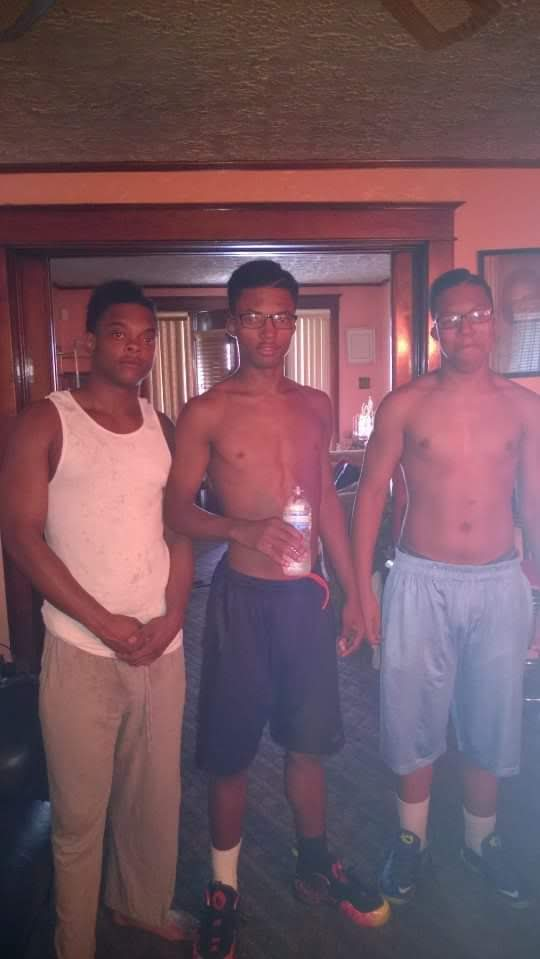
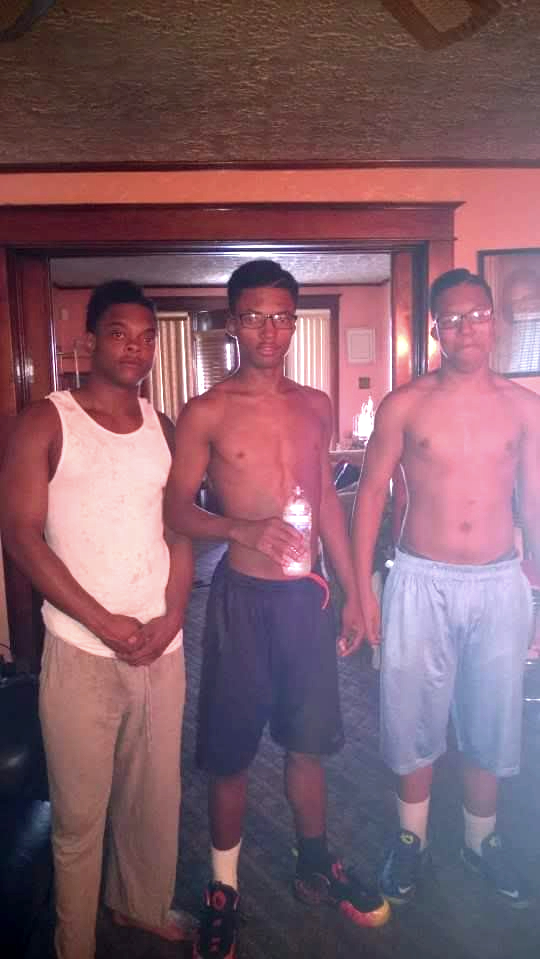
adding all types of changes

diff --git a/childhood.html b/childhood.html
@@ -28,7 +28,7 @@
       <li><a href="about.html">About</a></li>
       <li><a href="childhood.html">Childhood</a></li>
       <li><a href="motherhood.html">Motherhood</a></li>
-      <li><a href="youngparenthood2.html">Young Parenthood</a></li>
+      <li><a href="youngparenthood.html">Young Parenthood</a></li>
       <li><a href="youngadulthood.html">Young Adulthood</a></li>
       <li><a href="adulting.html">Adulting</a></li>
       <li><a href="futuremama.html">Future Mama</a></li>
@@ -44,29 +44,32 @@
               <p>I was born in July 1979 to a woman who had already had 2 boys. Hmmph, big brothers. I could take 'em or leave 'em. We lived for a few years in between Louisville KY and Indianapolis, IN. Mama chose to settle in Louisville after having two more sons, one in each state. I was dead smack in the middle and my life reflected my birth placement. It seemed like being born in the middle was an automatic divider between me and my brothers. And it didn't seem to help that I was the only one who didn't have a father.</p>
 
             <h2>Read, Write, and Draw</h2>
-          
+
               <p>I could say that not having a father caused a little toughening up of my girlie side but I'd would be lying. I would say that I was a tomboy because I have 4 frigging brothers. Duh. Cars, sports and fighting were just more interesting! It just seemed more fun to play wrestling rather than sitting on the steps wearing a frilly dress with ruffle socks. I feel Mama didn't like that she couldn't dress me up like a doll because that was the only thing I think she knew to do with a female child. Unfortunately, that just <b>wasn't</b> me. 
 
-              <figure>
-                <img src="images/meandmamaaward.jpg" alt="Me and my mama 1992 with my middle school art award" style="width: 50%; float: left;"> <figcaption>1992- Me and my mama at my 6th grade art award ceremony</figcaption>
-              <img src="images/meandrenata1993.jpg" alt="Me and a school friend Renata 1993" style="width: 50%; float: right;"><figcaption>1993- Me and a school friend, Renata</figcaption>
-            </figure>
+            <div class="childhood-gallery-2">
+              <img src="images/meandmamaaward.jpg" alt="Me and my mama 1992 with my middle school art award">
+              <img src="images/meandrenata1993.jpg" alt="Me and a school friend Renata 1993">
+              
+            </div>  
 
               <p>There's quite a few things that "weren't me", meaning there were many characteristics that I had that didn't fit my familial mold. I was a geeky girl who liked to read, paint, draw, and collect comic books. I skipped 2 high school grades, made Dean's List and Who's Who my junior & senior semesters. I couldn't have painted a bigger NERD bullseye on my own back if I wanted to. Welp!</p>
 
+            
             <h2>Childhood Dreams</h2>
            
               <p> I always wanted to be a mother for as long as I can remember. The first time being somewhere between 6 and 8 years old. I always felt I was alone. I wanted to have a family that wouldn't treat me bad or leave me alone. My plan was to finish high school and move into an apartment with my two best friends, Shawna & Sara, after graduating. I wanted to have my first baby while focusing on my writing and art and get accepted into a School of Arts Program.</p>
                 
-            <div class="childhood-gallery">
+              <p>By 16, I had written several award winning short stories that were part of my english portfolio. I had written 2 articles published in local and national publications about teen parenting. I had artwork on display in a Louisville well-known corporate office building. I felt I was going to be fully set to begin being a mother and an adult, without worrying about my education.</p>
+
+              <p>Well, thats not quite how it happened IRL but the actual outcome was so much BETTER!</p>
+
+              <div class="childhood-gallery">
                 <img src="images/meandshawnagrass.jpg" alt="Me and Shawna">
                 <img src="images/montandsaraparade.jpg" alt="Mont and Sara at the parade">
                 <img src="images/meandsaragrass.jpg" alt="Me and Sara">
             </div>
-
-              <p>By 16, I had written several award winning short stories that were part of my english portfolio. I had written 2 articles published in local and national publications about teen parenting. I had artwork on display in a Louisville well-known corporate office building. I felt I was going to be fully set to begin being a mother and an adult, without worrying about my education.</p>
-      
-              <p>Well, thats not quite how it happened IRL but the actual outcome was so much BETTER!</p>
+              
             </div>
           </div>
     </main>

diff --git a/youngadulthood.html b/youngadulthood.html
@@ -29,7 +29,7 @@
           <li><a href="about.html">About</a></li>
           <li><a href="childhood.html">Childhood</a></li>
           <li><a href="motherhood.html">Motherhood</a></li>
-          <li><a href="youngparenthood2.html">Young Parenthood</a></li>
+          <li><a href="youngparenthood.html">Young Parenthood</a></li>
           <li><a href="youngadulthood.html">Young Adulthood</a></li>
           <li><a href="adulting.html">Adulting</a></li>
           <li><a href="futuremama.html">Future Mama</a></li>
@@ -43,8 +43,31 @@
                 
                 <p>From graduating high school at 16 years old to being accepted into college at 17, I knew that education would be key to my family succeeding. A well-educated mind can rule the world. I planned my majors around something that would benefit my children even before I finished college: Early Childhood Education and Human Services (Social work).</p> 
                 
+                <div class="slideshow-container">
+                  <div class="slideshow" id="slideshow">
+                      <div class="slide">
+                        <img src="image5.jpg" alt="Image 5">
+                        <img src="image6.jpg" alt="Image 6">
+                        <img src="image7.jpg" alt="Image 7">
+                        <img src="image8.jpg" alt="Image 8">
+                      </div>
+                  </div>
+                </div>
+                
                 <p>I always felt like my life had been centered around helping others, help themselves even as a child. And I got the perfect opportunity to help others at age 16 while with the LMHA - Special Programs. The StarPoints Nurturing Program allowed me to engage and assist other teenage parents and single parents involved in the court system learn how to be good or better parents. There, under the supervision of one of the best women I've ever had the pleasure to meet in life, Johnella P. Wimberly, I was introduced to a world of caring and sharing, growing and learning, that I had never known. And she truly changed my life for the better. I loved her. I love her. I miss her. R.I.P.</p>
                 
+                 <!-- Auto-Transitioning Gallery -->
+    <div class="slideshow-container">
+      <div class="slideshow" id="slideshow">
+
+          <div class="slide">
+              <img src="image9.jpg" alt="Image 9">
+              <img src="image10.jpg" alt="Image 10">
+              <img src="image11.jpg" alt="Image 11">
+              <img src="image12.jpg" alt="Image 12">
+          </div>
+      </div>
+  </div>
 
           <h2>Working for Them</h2>
            

diff --git a/youngparenthood.html b/youngparenthood.html
@@ -46,9 +46,23 @@
           
           <p>We learned how to be a family, regardless of outside influences, through gaining extended family members who would prove to be lifelong support and connections. I was and <b>am</b> a firm believer in it takes a <i><b>VILLAGE</b></i> to raise a child.</p> 
       
+          <div class="hover-gallery">
+            <img src="images/boysdoingchores.jpg" alt="Boys doing chores outside">
+            <img src="images/FOEboys.jpg" alt="Boys Family over Everything">
+            <img src="images/montandpoohtuwrestling.jpg" alt="Mont and Junior wrestling">
+            <img src="images/poohtusleeponhands.jpg" alt="Poohtu sleep on his hands">
+        </div>
+
       <h2>As Well As</h2>
 
          <p>As I said before, we REALLY grew up together. Having to get up early in the mornings, I quickly learned the importance of the bedtime ritual. Knocking all 3 of them down for the night was no easy task! I had to wear them out before they wore ME out! We would do all types of things like have indoor stair luges with pillow armor or playing blackout hide-n-seek in a pitch dark house. I taught them how baby powder will make a spark in the dark. (Here's a hint--It involves hand-to-face action) And as they got older, it got weirder. They had rats, birds, fish, blue crabs, hamsters, cats and rabbits as pets. They paper mached the whole back of the lower level of my house. We dissected an albino frog on the sidewalk. We had Co2 BB gun wars which HURT but was fun when we ambushed others. There was not so gross stuff too like they learned how to build bikes from loose parts and work on cars.</p> 
+
+         <div class="hover-gallery">
+          <img src="images/PoohtugradBoys.jpg" alt="Poohtu graduation">
+          <img src="images/montpushingpoohtuswing.jpg" alt="Mont pushing Poohtu on a swing">
+          <img src="images/theyfamily.jpg" alt="The Boys and their Family">
+          <img src="images/shawnandmontwrestling.jpg" alt="Shawn and Mont wrestling">
+      </div>
 
         <p>Our family outings consisted of trips to museums, zoos, playgrounds, historical sites, and different states. The boys even went to Florida without me! I've still not seen the ocean...and don't care to. They had a chance to attended every school activity/event that they desired: band, chess, performing arts, football, basketball, track, proms, dances, out-of-towners, over-nighters, and pep rally's. My middle son was even blessed to participate in a trip to meet the 1st African American President of the United States, Barack O'Bama!</p>
           

diff --git a/photo.html b/photo.html
@@ -157,13 +157,112 @@ header h1  {
   color: black;
 }
 
-/* Responsive Adjustments */
-@media (max-width: 768px) {
-  .topnav ul {
-    flex-direction: column;
-    align-items: center;
-  }
+footer {
+    background-color: #f4d8e2;    
+    color: rgb(180, 152, 13);
+    text-align: center;
+    padding: 1rem 0;
+    margin-top: 2rem;
 }
+
+footer small {
+    font-size: 0.9rem;
+}
+
+/* Responsive Styles */
+
+
+@media screen and (max-width: 600px) {
+
+header h1 {
+  font-size: 1.8rem;
+  padding: 0.5rem;
+}
+
+.topnav ul {
+  display: none;
+  flex-direction: column;
+  gap: 1rem;
+}
+
+.topnav a.icon {
+  display: block;
+  float: right;
+  
+}
+
+.topnav.responsive ul {
+  display: flex;
+}
+
+.topnav.responsive ul li {
+  float: none;
+  text-align: left;
+}
+
+main {
+  padding: 10px;
+}
+
+h2, h3 {
+  font-size: 1.3em;
+  text-align: center;
+}
+
+p {
+  padding: 8px;
+  font-size: 18px;
+}
+}
+
+/* For Tablets and screens (601px to 1024px) */
+
+@media screen and (min-width: 601px) and (max-width: 1024px) {
+header h1 {
+font-size: 2.2rem;
+}
+
+.topnav ul {
+flex-direction: row;
+gap: 1rem; 
+}
+
+.topnav ul li {
+padding: 8px; /* Reduce padding for better fit */
+}
+
+p {
+font-size: 1rem;
+}
+}
+
+/* For desktop screens */
+
+@media screen and (min-width: 1025px) {
+header h1 {
+font-size: 2.5rem;
+}
+
+.content-container {
+flex-direction: row;
+gap: 2rem;
+}
+
+.topnav ul {
+gap: 1.5rem;
+}
+
+.childhood-gallery img {
+justify-content: space-between;
+height: auto;
+}
+
+.sidebar h3 {
+font-size: 1.3rem;
+}
+
+}
+
 
   </style>
 </head> 
@@ -181,15 +280,12 @@ header h1  {
             <li><a href="about.html">About</a></li>
             <li><a href="childhood.html">Childhood</a></li>
             <li><a href="motherhood.html">Motherhood</a></li>
-            <li><a href="youngparenthood2.html">Young Parenthood</a></li>
+            <li><a href="youngparenthood.html">Young Parenthood</a></li>
             <li><a href="youngadulthood.html">Young Adulthood</a></li>
             <li><a href="adulting.html">Adulting</a></li>
             <li><a href="futuremama.html">Future Mama</a></li>
           </ul>   
       </div>
-
-
-    <h2 style="text-align:center;">Sunshine's Image Gallery</h2>
 
     <!-- Photo Grid -->
 <div class="gallery-container"> 

diff --git a/motherhood.html b/motherhood.html
@@ -27,7 +27,7 @@
       <li><a href="about.html">About</a></li>
       <li><a href="childhood.html">Childhood</a></li>
       <li><a href="motherhood.html">Motherhood</a></li>
-      <li><a href="youngparenthood2.html">Young Parenthood</a></li>
+      <li><a href="youngparenthood.html">Young Parenthood</a></li>
       <li><a href="youngadulthood.html">Young Adulthood</a></li>
       <li><a href="adulting.html">Adulting</a></li>
       <li><a href="futuremama.html">Future Mama</a></li>
@@ -40,7 +40,7 @@
     <div class="content">
           <h2>Motherhood</h2>
 
-            <img src="images/MeandMontbaby.jpg" alt="Me and Mont as a baby" class="float-image1">
+            <img src="images/MeandMontbaby.jpg" alt="Me and Mont (as a baby)" class="float-image1">
 
           <p>First things first; I am PROUD to have been a teenage mother. From 1995 to 2000, I was focused on building my family. There were <u>NO</u> mistakes involved when it comes to the creation of my children. Each one of them were born from unconditional love through conditional actions. My firstborn son arrived Fall 1995, on the last day of the semester for Thanksgiving break. <b><i>(I finished my last credit for graduation that same day!)</i></b> Fueled by my determination to start my family, I had pushed hard to complete high school, graduating at 16 years old pregnant, 2 whole years earlier than scheduled. I had been promoted from 10th grade to graduating high school in 9 months while earning a 4 year scholarship to help pay for college. <b>All for him.</b></p>
             

diff --git a/style.css b/style.css
@@ -118,17 +118,32 @@ p {
 
 /* These are the images that are next to each other. */
 
-.childhood-gallery {
+.childhood-gallery, .childhood-gallery-2 {
   display: flex;
   justify-content: center;
   flex-wrap: wrap;
 }
 
-.childhood-gallery img {
+.childhood-gallery img, .childhood-gallery-2 img {
   width: 350px;
   height: 350px;
   padding: 10px;
 }
+
+
+        /* Hover-Enlarge Gallery */
+        .hover-gallery {
+          display: flex;
+          gap: 10px;
+      }
+      .hover-gallery img {
+          width: 200px;
+          height: 150px;
+          transition: transform 0.3s ease;
+      }
+      .hover-gallery img:hover {
+          transform: scale(1.1);
+      }
 
 
 .sidebar {

diff --git a/about.html b/about.html
@@ -27,7 +27,7 @@
             <li><a href="about.html">About</a></li>
             <li><a href="childhood.html">Childhood</a></li>
             <li><a href="motherhood.html">Motherhood</a></li>
-            <li><a href="youngparenthood2.html">Young Parenthood</a></li>
+            <li><a href="youngparenthood.html">Young Parenthood</a></li>
             <li><a href="youngadulthood.html">Young Adulthood</a></li>
             <li><a href="adulting.html">Adulting</a></li>
             <li><a href="futuremama.html">Future Mama</a></li>

diff --git a/index.html b/index.html
@@ -26,7 +26,7 @@
             <li><a href="about.html">About</a></li>
             <li><a href="childhood.html">Childhood</a></li>
             <li><a href="motherhood.html">Motherhood</a></li>
-            <li><a href="youngparenthood2.html">Young Parenthood</a></li>
+            <li><a href="youngparenthood.html">Young Parenthood</a></li>
             <li><a href="youngadulthood.html">Young Adulthood</a></li>
             <li><a href="adulting.html">Adulting</a></li>
             <li><a href="futuremama.html">Future Mama</a></li>

diff --git a/adulting.html b/adulting.html
@@ -28,7 +28,7 @@
           <li><a href="about.html">About</a></li>
           <li><a href="childhood.html">Childhood</a></li>
           <li><a href="motherhood.html">Motherhood</a></li>
-          <li><a href="youngparenthood2.html">Young Parenthood</a></li>
+          <li><a href="youngparenthood.html">Young Parenthood</a></li>
           <li><a href="youngadulthood.html">Young Adulthood</a></li>
           <li><a href="adulting.html">Adulting</a></li>
           <li><a href="futuremama.html">Future Mama</a></li>

diff --git a/futuremama.html b/futuremama.html
@@ -26,7 +26,7 @@
         <li><a href="about.html">About</a></li>
         <li><a href="childhood.html">Childhood</a></li>
         <li><a href="motherhood.html">Motherhood</a></li>
-        <li><a href="youngparenthood2.html">Young Parenthood</a></li>
+        <li><a href="youngparenthood.html">Young Parenthood</a></li>
         <li><a href="youngadulthood.html">Young Adulthood</a></li>
         <li><a href="adulting.html">Adulting</a></li>
         <li><a href="futuremama.html">Future Mama</a></li>

diff --git a/photo.js b/photo.js
@@ -1,3 +1,14 @@
+/* This is the navigation menu. This makes it collapse on a fullscreen */
+function myFunction() {
+    var x = document.getElementById("myTopnav");
+    if (x.className === "topnav") {
+      x.className += " responsive";
+    } else {
+      x.className = "topnav";
+    }
+  }
+  
+
 document.addEventListener("DOMContentLoaded", function () {
     // Manual Slideshow
     function manualSlideGallery(galleryClass, direction) {
